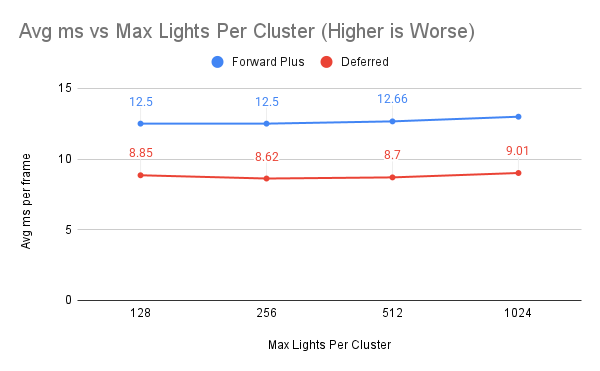
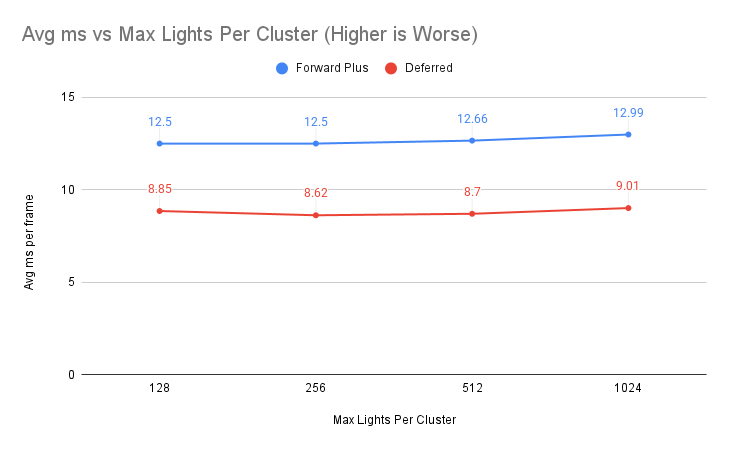
finished readme

diff --git a/README.md b/README.md
@@ -2,10 +2,10 @@ WebGL Forward+ and Clustered Deferred Shading
 ======================
 
 **University of Pennsylvania, CIS 565: GPU Programming and Architecture, Project 4**
-
-* (TODO) YOUR NAME HERE
-* Tested on: (TODO) **Google Chrome 222.2** on
-  Windows 22, i7-2222 @ 2.22GHz 22GB, GTX 222 222MB (Moore 2222 Lab)
+* Anthony Ge
+  * [LinkedIn](https://www.linkedin.com/in/anthonyge/), [personal website](https://www.geant.pro)
+* Tested on: Windows 11, i9-13900H @ 2600 Mhz 16GB, NVIDIA 
+GeForce RTX 4070 Laptop GPU 8GB (personal)
 
 ### Live Demo
 
@@ -161,7 +161,7 @@ As noted previously, both the deferred and forward plus solutions scaled much be
 
 Ms for naive increases in a linear fashion, while both forward plus and deferred scale nearly logarithmically. This is mostly from the localized binning of the lights, allowing lesser lighting calculations per fragment based on the cluster. Deferred runs much faster than forward because of the single light shading for what's on screen, avoiding overdraw from Sponza's complex geometry.
 
-I would expect that for simpler scenes, like a simeple plane, the overhead from sampling deferred's expensive texture formats would cause worse performance compared to forward plus, which has most fragments present on screen immediately with little overdraw.
+I would expect that for simpler scenes, like a simple plane, the overhead from sampling deferred's expensive texture formats would cause worse performance compared to forward plus, which has most fragments present on screen immediately with little overdraw.
 
 ---
 ### Performance vs. Number of Clusters (Based on Tile Size)
@@ -179,18 +179,35 @@ While it seems more ideal to have more clusters then to process less lights, thi
 ### Performance vs. Varying Workgroup Sizes
 ![workgroups](img/workgroupPerf.png)
  
+For this test, I wanted to see if changing the dimensions of the work groups impacted performance, or in other words, if the different number of workgroups dispatched changed performance. 
+
+In all cases besides (1,1,1), I tested between different combinations of numbers with products equaling 256, the max number of threads dispatched in a group. 
+
+For launching one giant block of 256 threads, the performance was signifcantly slow, presumably from the lack of caching per thread in their respective group. Using a ratio of 2:1 in varying 16,8 or 8,16 configurations for the next test seemed to improve performance significantly over an equal 8,8 configuration that used more threads in the z dimension. I assume the performance worked for thread group sizes with less z because most of the cluster processing is in the XY dimensions compared to z. I think the unequal configuration also produced better results because of how the clusters are organized based on the screen dimensions of width and height, potentially leading to better cache access in our cluster list array. While performance with 16,16,1 was good, it wasn't as good as the non-square configurations, though ultimately the results were very similar all throughout.
 
 ---
 ### Performance vs. Cluster Light Size
 ![cluster](img/maxLightsPerf.png)
 
+My final test profiled performance against increasing max lights per cluster - mostly testing to see if there were any performance hits from using more data per cluster. 
+
+There is a measured performance impact, where for forward plus the delta is ~0.49ms from 128 to 1024 lights and ~0.16ms for deferred, where the impact is only really noticeable from 512 to 1024 lights. This is most likely from increased bandwidth, as each cluster is ultimately more expensive to load and process the more lights there can be.
+
+Across forward plus and deferred at least, I expect cache thrashing to be behind the differences, where discarded fragments will have more random tile access compared to deferred only referencing what's visible on screen.
+
 ---
-### Overall Conclusions
+### Overall Conclusions + Potential Optimizations
+It was very nice to see what clustered deferred worked really well compared to forward plus and naive. I was initially surprised by the results, since I thought the memory bandwidth of deferred would've certainly made it performance worse compared to forward. 
 
+I also assumed that we would implement 2D tiled rendering using the Z-range optimization, as I thought there could be some situations that the 2D without clusters would perform better due to less memory overhead. I don't think most engines nowadays use a pure cluster implementation, and rather a mix of forward plus and some Z-binning type thing mentioned in the beginning of the post.
 
+As far as further optimizations go, I did not implement logarithmic near/far plane Z-slices, instead using uniform length slices. There wasn't any good reason for that, mainly just because I used it to test if the implementation worked in the first place and kept it because it worked decently, performance wise.
 
+I also would've wanted to try some further light culling implementations, using viewDepth to skip processing clusters if they're occluded, and then MAYBE using the min/max Z to skip processing lights.
 
+Instead of processing lights per cluster, it's potentially more optimized to instead process clusters per light, where we run compute shaders to process individual lights instead of clusters, and use atomic operations to modify cluster bins. 
 
+For processing the lights per pixel, an interesting blog about [GPU scalarization for consoles by Francesco Cifariello Ciardi](https://flashypixels.wordpress.com/2018/11/10/intro-to-gpu-scalarization-part-2-scalarize-all-the-lights/) uses forward plus lighting as an optimization case study referencing [Drobot's talk about lighting in Infinite Warfare](https://advances.realtimerendering.com/s2017/2017_Sig_Improved_Culling_final.pdf), using coherency to assume that most threads in a wave will process similar tiles (in our case, clusters I suppose), which can be scalarized if we process by tiles instead of lights. I don't fully understand it, but if we ever learn advanced wave operations that WGSL supports, I'd happily return to this project and try this out.
 
 ### Credits
 
